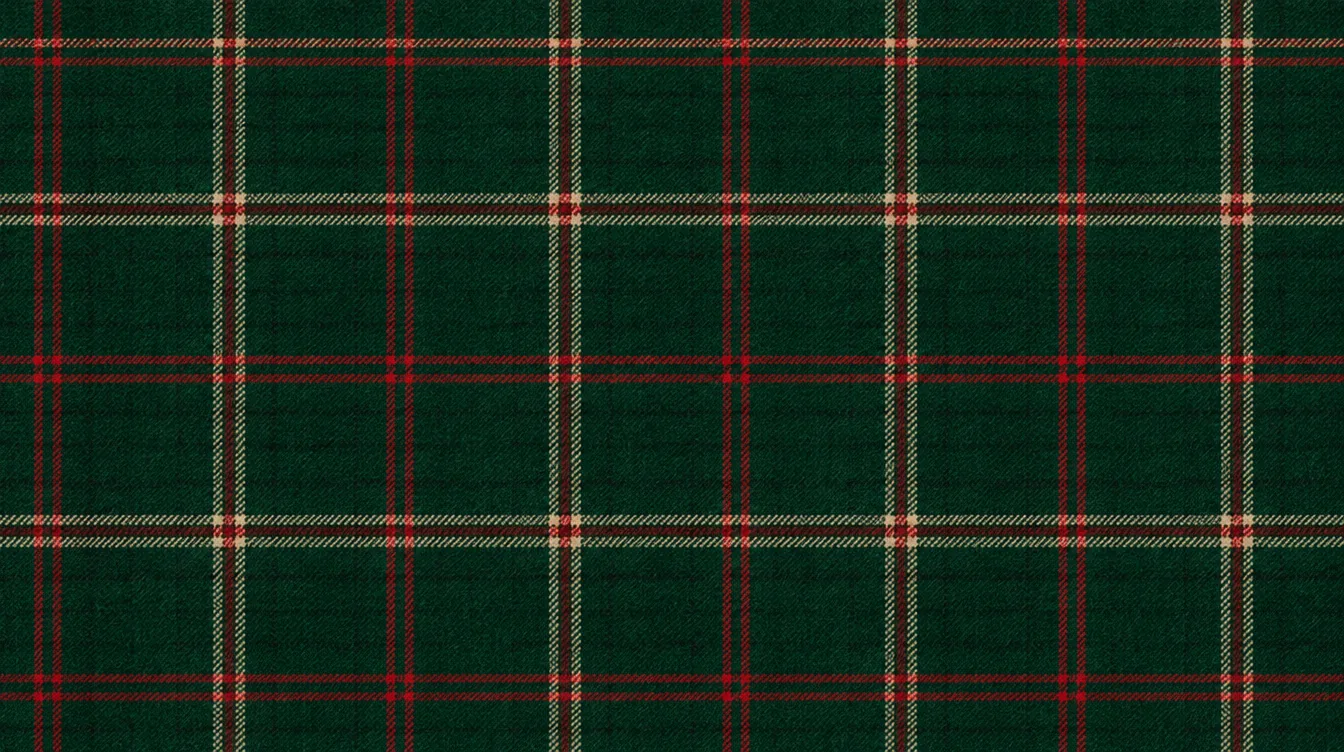
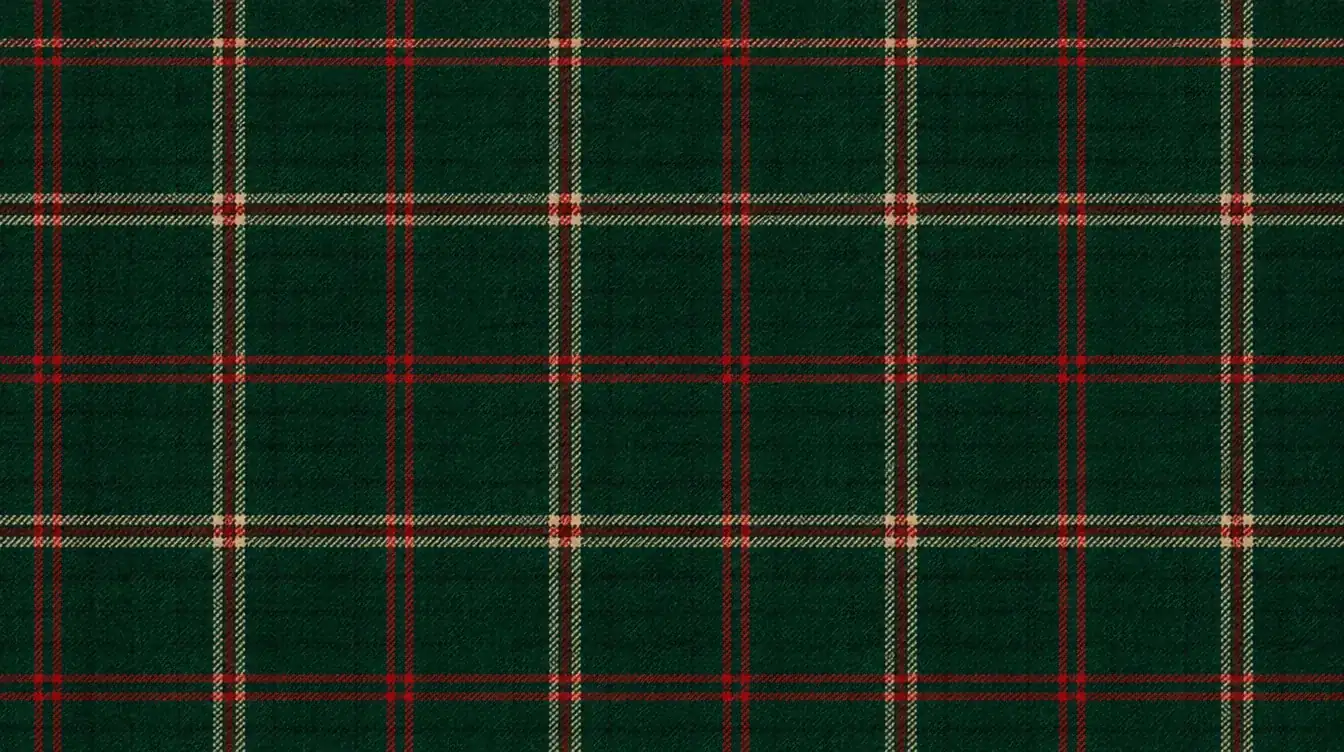
Показ: итоговая проверка 13.11 — шрифт Manrope одним файлом, сжатый клетчатый фон, лёгкое фото Алтая для телефонов, длинное слово в цифрах партнёра не уходит за экран, убраны отладочные console.log

diff --git a/src/pages/partner/index.jsx b/src/pages/partner/index.jsx
@@ -9,6 +9,15 @@ import { TaskSection } from './ui/TaskSection';
 import './PartnerPage.scss';
 
 const d = (ms) => ({ '--d': `${ms}ms` });
+
+/**
+ * Значение в блоке цифр «О компании». Длинное слово («Боголюбово») на телефоне не помещалось в свою колонку
+ * и уходило за экран: слова длиннее 7 букв уменьшаются ровно настолько, чтобы занять то же место, что 7 букв (13.11).
+ */
+function FactValue({ value }) {
+  const longest = Math.max(...String(value).split(/\s+/).map((w) => w.length));
+  return <span style={longest > 7 ? { fontSize: `${(7 / longest).toFixed(3)}em` } : undefined}>{value}</span>;
+}
 const N = CAMPAIGN.partnerItemsPerStep;
 
 /**
@@ -91,7 +100,7 @@ export default function PartnerPage() {
             {partner.facts.length > 0 && (
               <div className="facts partner-about__facts reveal" style={d(120)}>
                 {partner.facts.map((f) => (
-                  <div className="fact" key={f.label}><span className="num num-red">{f.value}</span><small>{f.label}</small></div>
+                  <div className="fact" key={f.label}><span className="num num-red"><FactValue value={f.value} /></span><small>{f.label}</small></div>
                 ))}
               </div>
             )}

diff --git a/src/shared/styles/fonts.scss b/src/shared/styles/fonts.scss
@@ -25,10 +25,8 @@ $lat: U+0000-00FF, U+0131, U+0152-0153, U+02BB-02BC, U+02C6, U+02DA, U+02DC, U+0
 
 @include face('Fira Sans Extra Condensed', 'FiraSansExtraCondensed-700-normal', 700);
 @include face('Fira Sans Extra Condensed', 'FiraSansExtraCondensed-900-normal', 900);
-@include face('Manrope', 'Manrope-400-normal', 400);
-@include face('Manrope', 'Manrope-500-normal', 500);
-@include face('Manrope', 'Manrope-600-normal', 600);
-@include face('Manrope', 'Manrope-700-normal', 700);
-@include face('Manrope', 'Manrope-800-normal', 800);
+// Manrope — вариативный шрифт: файлы 400…800 побайтно одинаковые, а браузер качал каждый отдельно (до 5 раз по 40 КБ).
+// Теперь один файл на все начертания 400–800 (правка 13.11, итоговая проверка скорости).
+@include face('Manrope', 'Manrope-400-normal', 400 800);
 @include face('Playfair Display', 'PlayfairDisplay-900-normal', 900);
 @include face('Playfair Display', 'PlayfairDisplay-900-italic', 900, italic);

diff --git a/src/pages/prizes/index.jsx b/src/pages/prizes/index.jsx
@@ -76,7 +76,7 @@ export default function PrizesPage() {
             <img className="main-prize__branch" src="/img/branch.webp" alt="" width={200} height={214} loading="lazy" decoding="async" />
             <figure className="photo-card" style={{ margin: 0 }}>
               <span className="photo-card__tape" aria-hidden="true" />
-              <img src="/img/altai.webp" alt="Зимний Алтай: горы, река и ели" width={1400} height={700} decoding="async" style={{ background: `center / cover url(${ALTAI_BLUR})` }} />
+              <img src="/img/altai.webp" srcSet={['/img/altai-800.webp 800w', '/img/altai.webp 1400w'].join(', ')} sizes="(max-width: 1024px) 90vw, 52vw" alt="Зимний Алтай: горы, река и ели" width={1400} height={700} decoding="async" style={{ background: `center / cover url(${ALTAI_BLUR})` }} />
               <figcaption>Алтай</figcaption>
             </figure>
             <span className="seal seal--red main-prize__badge"><span className="num">1</span><small>из&nbsp;5<br />призов</small></span>

diff --git a/src/pages/document/ui/DocumentPage.jsx b/src/pages/document/ui/DocumentPage.jsx
@@ -40,7 +40,8 @@ export function DocumentPage({ doc, title }) {
         <div className="container" style={{ position: 'relative', zIndex: 1 }}>
           <Link className="doc-hero__back reveal tap-area" to="/">←&nbsp; На главную</Link>
           <div><span className="ribbon reveal" style={{ '--d': '40ms' }}>Документ</span></div>
-          <h1 className="reveal" style={{ '--d': '80ms' }}>{doc.title}</h1>
+          {/* --longest — букв в самом длинном слове: на телефоне заголовок уменьшается, чтобы слово («распространение») не уходило за экран (13.11) */}
+          <h1 className="reveal" style={{ '--d': '80ms', '--longest': Math.max(...doc.title.split(/\s+/).map((w) => w.length)) }}>{doc.title}</h1>
           <p className="lead reveal" style={{ '--d': '120ms' }}>{doc.lead}</p>
         </div>
       </section>

diff --git a/src/shared/api/index.js b/src/shared/api/index.js
@@ -7,17 +7,13 @@ import { mockApi } from './mock';
 
 export const API_MODE = import.meta.env.VITE_API_MODE === 'http' ? 'http' : 'mock';
 
-console.log("API_MODE",API_MODE)
-console.log("import.meta.env.VITE_API_MODE", import.meta.env.VITE_API_MODE)
 
 export const api = API_MODE === 'http' ? httpApi : mockApi;
 
-console.log("api",api)
 
 /** В режиме http подгружает справочники (магазины, статистику); в mock ничего не делает. */
 export async function bootstrapApi() {
 
-  console.log(" mock ничего не делает")
 
   if (API_MODE === 'http') await loadDictionaries();
   else resetDemoFromUrl();

diff --git a/src/shared/api/http.js b/src/shared/api/http.js
@@ -158,7 +158,6 @@ export const httpApi = {
   },
 
   sample() {
-    console.log("mok")
     return mockApi.sample();
   },
 
@@ -206,7 +205,6 @@ export const httpApi = {
 
   // ЗАГЛУШКА (согласовать с бэкендом): тот же адрес, что в QR-коде на чеке, но POST — GET этого адреса открывает сайт (README, «Чек по QR-коду»)
   registerReceiptQr(code) {
-    console.log("code",code)
     return request(`/checks/me`, { method: 'POST', body: JSON.stringify({ code }) });
   },
 

diff --git a/src/pages/document/DocumentPage.scss b/src/pages/document/DocumentPage.scss
@@ -46,7 +46,7 @@
 }
 @include below-md {
   .doc-hero { padding-top: 20px; padding-bottom: 48px; }
-  .doc-hero h1 { max-width: none; font-size: clamp(36px, 10vw, 44px); }
+  .doc-hero h1 { max-width: none; font-size: min(clamp(36px, 10vw, 44px), calc((100vw - 2 * var(--gutter)) / (var(--longest, 10) * 0.7))); }
   .doc-hero__goat { display: none; }
   .doc-hero__branch { display: none; }
   .doc { padding-block: 24px 40px; }

diff --git a/src/widgets/header/Header.jsx b/src/widgets/header/Header.jsx
@@ -55,7 +55,6 @@ export function Header({ hero = false }) {
     toast('Вы вышли из профиля. Можно войти с другим номером');
   };
 
-  console.log("user",user)
 
   const maskedPhone = user ? `+7 ${user.phone.slice(0, 3)} •••‑••‑${user.phone.slice(8)}` : '';
 

diff --git a/src/pages/route/index.jsx b/src/pages/route/index.jsx
@@ -24,7 +24,6 @@ const d = (ms) => ({ '--d': `${ms}ms` });
 export default function RoutePage() {
 
   const { user, ready, selectedStore } = useSession();
-  console.log("RoutePage, user:", user);
   const { open, state: modal } = useModal();
   const reduced = useReducedMotion();
   const guest = !user;
